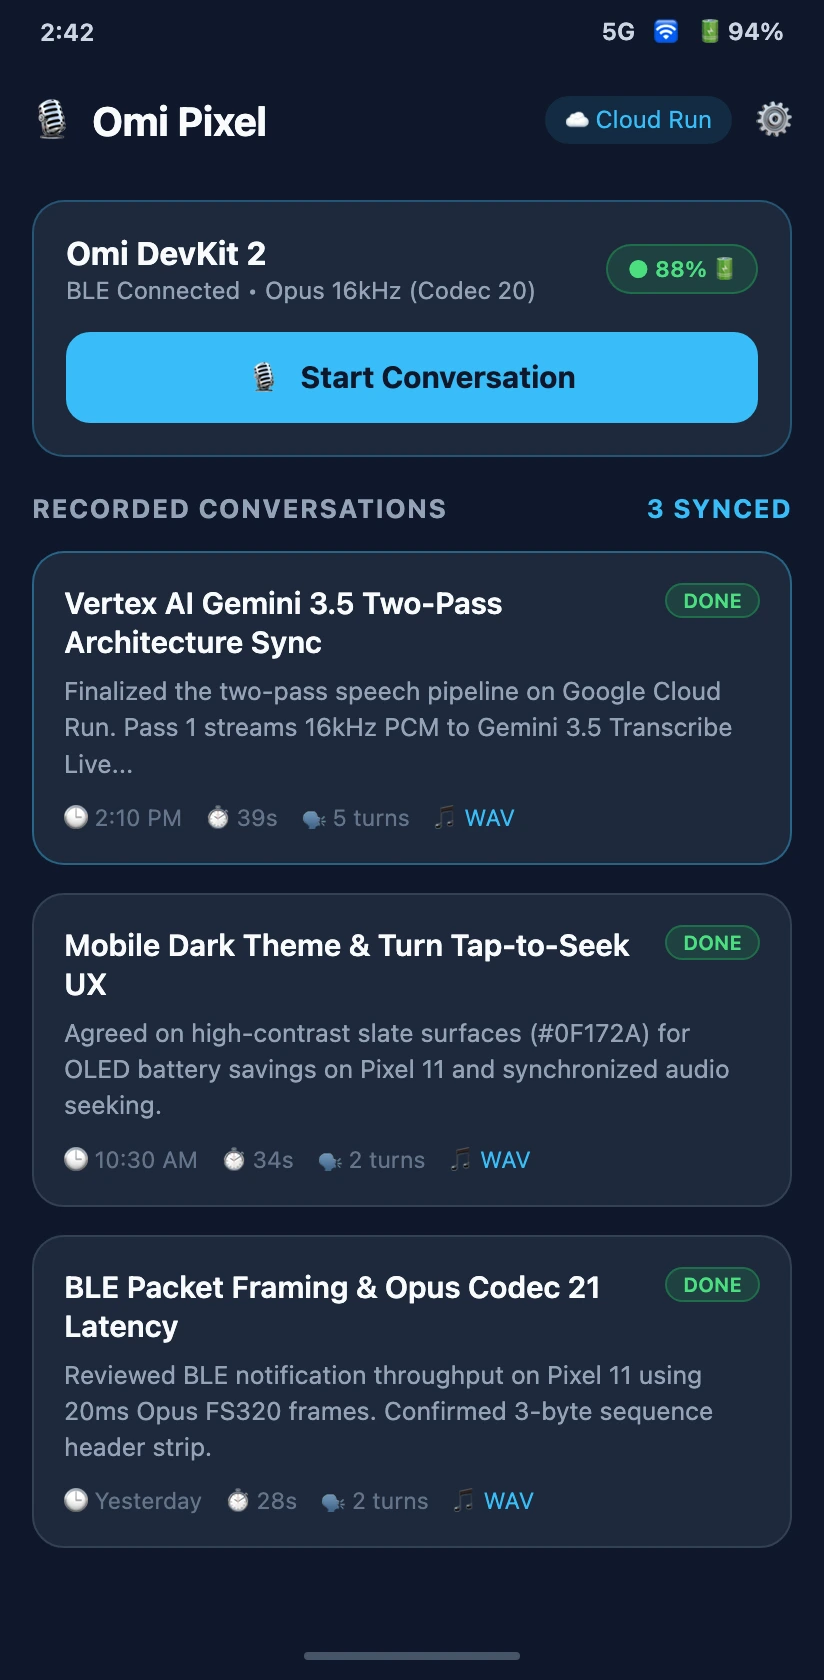
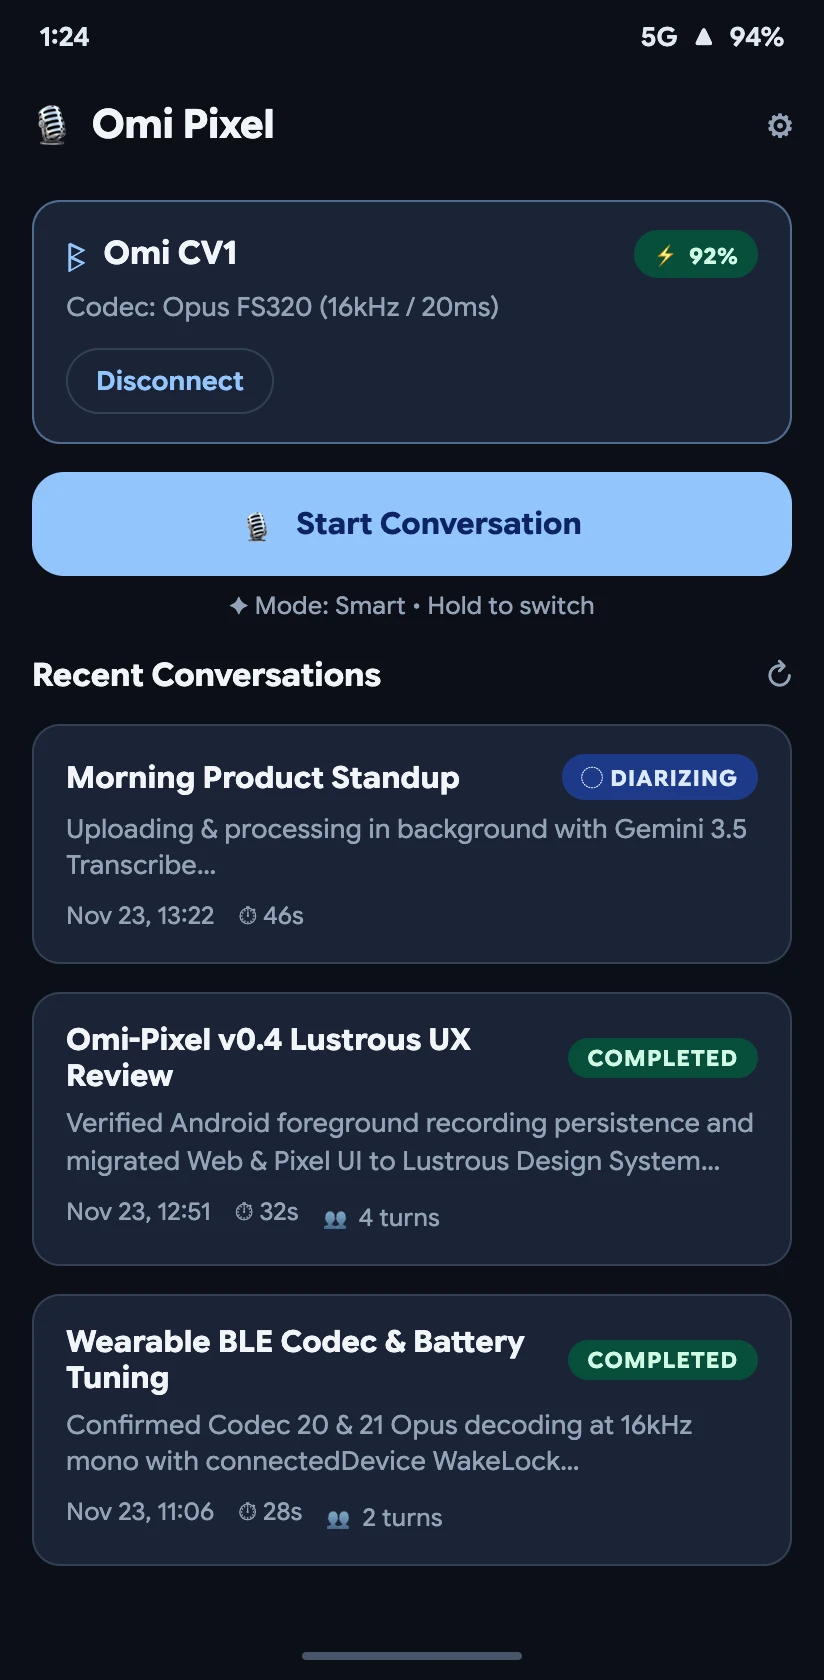
docs(screenshots): refresh Web & Mobile visuals for v0.4.0 Lustrous UX (omi-pixel-5nm)

diff --git a/service/web/templates.go b/service/web/templates.go
@@ -405,7 +405,7 @@ const spaTemplate = `<!doctype html>
         '<lustrous-text id="sessions-count" variant="body-small" muted></lustrous-text>' +
         '</lustrous-flex>' +
         '<lustrous-flex align="center" gap="s">' +
-        '<lustrous-search-bar id="session-search" variant="outlined" size="s" placeholder="Search transcripts & summaries…" value="' + escapeHtml(currentSearchQuery) + '"></lustrous-search-bar>' +
+        '<lustrous-search-bar id="session-search" variant="outlined" size="s" placeholder="Search sessions…" value="' + escapeHtml(currentSearchQuery) + '"></lustrous-search-bar>' +
         '<lustrous-button id="refresh-list-btn" variant="outline" size="s" icon="refresh">Refresh</lustrous-button>' +
         '</lustrous-flex>' +
         '</lustrous-flex>' +

diff --git a/README.md b/README.md
@@ -26,20 +26,20 @@ A standalone, self-hosted **Flutter companion app for Google Pixel** and **Go Cl
 
 ## 📱 Mobile Companion & Web Review Showcase
 
-### Pixel Companion App (Dark OLED Material 3 UI)
+### Pixel Companion App (Lustrous Design System • Light / Auto / Dark)
 
-| 1. Connect & Auto-Reconnect | 2. Live Verbatim Stream | 3. Diarized Turns & Tap-to-Seek |
+| 1. Connect & Quick-Switch Mode | 2. Live Smart Stream & Audio Health | 3. Diarized Turns & Tap-to-Seek |
 | :---: | :---: | :---: |
 | <img src="docs/screenshots/mobile-home.webp" width="260" alt="Omi Pixel Home Screen"> | <img src="docs/screenshots/mobile-live.webp" width="260" alt="Omi Pixel Live Transcription"> | <img src="docs/screenshots/mobile-detail.webp" width="260" alt="Omi Pixel Diarized Detail"> |
-| *BLE status, battery level, & synced history* | *Sub-second `gemini-3.5-transcribe-live`* | *Speaker chips, Gemini 3.8 summary, & WAV seek* |
+| *BLE status, battery, background `DIARIZING`, & hold-to-switch mode* | *Sub-second `gemini-3.5-transcribe-live` + live PCM health pill* | *Lustrous speaker badges, Gemini 4 Hydrogen summary, & WAV seek* |
 
 <p align="center">
   <img src="docs/screenshots/live-demo.gif" width="320" alt="Omi Pixel Workflow Demo GIF">
 </p>
 
-### Built-In Web Review Dashboard (Hosted on Cloud Run)
+### Built-In Web Review Dashboard (`@ghchinoy/lustrous-lit` on Cloud Run)
 
-Every deployment serves a responsive, dark-mode Web Review SPA protected by Firebase Google Sign-In and your Firestore `authorized_users` allowlist:
+Every deployment serves a responsive **Lustrous Design System** Web Review SPA (Light / Auto / Dark themes, live search, modal delete) protected by Firebase Google Sign-In and your Firestore `authorized_users` allowlist:
 
 | Session History & Search | Synchronized WAV Player & Speaker Turns |
 | :---: | :---: |
